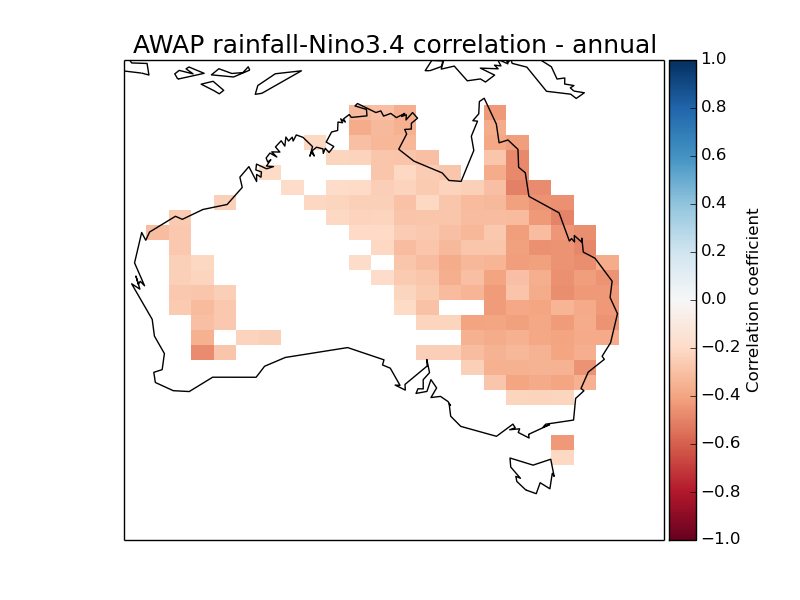
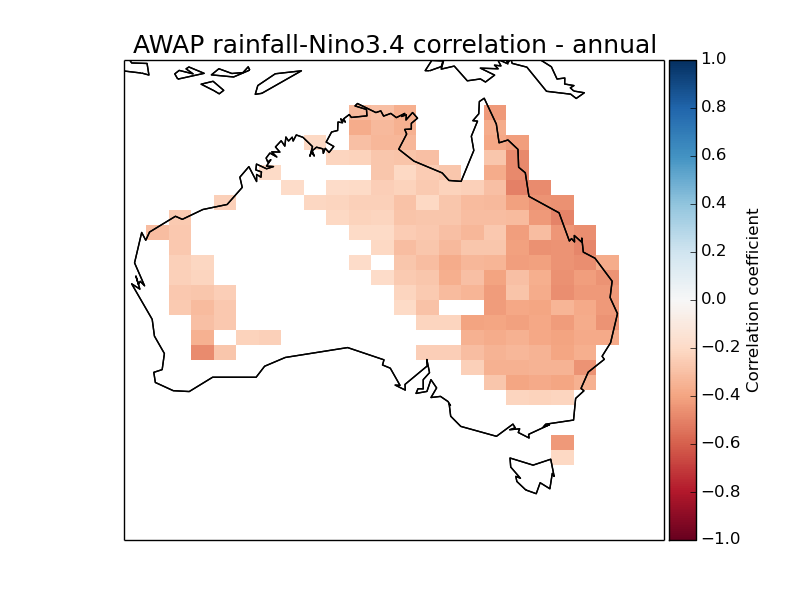
Various changes

diff --git a/correlation.py b/correlation.py
@@ -3,7 +3,7 @@ A file to collate sub-routines used to correlate ENSO with rainfall
 and the IPO with rainfall.
 
 Submitted by Sonya Wellby for ENVS4055, 2015.
-Last updated 7 October 2015.
+Last updated 10 November 2015.
 """
 import netCDF4 as n
 import numpy as np
@@ -57,13 +57,24 @@ def corr(rainfall,index):
     corr_array_masked = np.ma.masked_where(corr_array == 0.0, corr_array)
     return corr_array_masked
 
+def average(array):
+    """
+    A function to produce one value for each year in the study period.
+    """
+    list1 = []
+    for i in range(0,len(array)):
+        list1.append(np.ma.mean(array[i]))
+    array1 = np.asarray(list1)
+    return array1
+
 def corrAverage(rainfall,index):
     """
     Returns the average correlation value between an index and rainfall
     in Australia.
     """
-    rain_array = np.ma.mean(rainfall,axis=0)
-    corr_Aus = corr(rain_array,index)
+    rain_array = average(rainfall)
+    corr_Aus_full = stats.pearsonr(rain_array,index)
+    corr_Aus = np.ma.masked_where(corr_Aus_full[1]>0.05,corr_Aus_full[0])
     return corr_Aus
 
 def corrEastAus(rainfall,index):
@@ -77,50 +88,64 @@ def corrEastAus(rainfall,index):
     Rainfall: the dataset of rainfall.
     Index: the dataset of the index.
     """
-    #corr_array_masked = corr(rainfall,index)
-
     #Eastern Australian region is from 140.625 degrees east (~Vic/NSW border)
-    array_E_Aus = rainfall[:,14:]
+    array_E_Aus = rainfall[:,:,14:]
     
     #Koppen classification areas in eastern Australia
-    array_equatorial = rainfall[23:,14:]
-    array_tropical = rainfall[19:23,14:]
-    array_subtropical = rainfall[10:19,16:]
-    array_desert = rainfall[9:17,14:15]
+    array_equatorial = rainfall[:,23:,14:]
+    array_tropical = rainfall[:,19:23,14:]
+    array_subtropical = rainfall[:,10:19,16:]
+    array_desert = rainfall[:,9:17,14:15]
 
-    grass1 = rainfall[17:19,14:15]
-    grass2 = rainfall[17:19,15:16]
-    grass3 = rainfall[4:17,15:16]
-    grass4 = rainfall[4:9,14:15]
-    array_grassland = np.ma.concatenate((grass1,grass2,grass3,grass4))
+    grass1 = rainfall[:,17:19,14:15]
+    grass2 = rainfall[:,4:17,15:16]
+    grass3 = rainfall[:,4:9,14:15]
 
-    temperate1 = rainfall[4:10,16:]
-    temperate2 = rainfall[:4,14:20]
-    array_temperate = np.ma.concatenate((temperate1,temperate2))
+    temperate1 = rainfall[:,4:10,16:]
+    temperate2 = rainfall[:,:4,14:20]
 
-    #Compute average correlations for eastern Australia
-    rain_E_Aus = np.ma.average(array_E_Aus,axis=0)
-    rain_equatorial = np.ma.average(array_equatorial,axis=0)
-    rain_tropical = np.ma.average(array_tropical,axis=0)
-    rain_subtropical = np.ma.average(array_subtropical,axis=0)
-    rain_desert = np.ma.average(array_desert,axis=0)
-    rain_grassland = np.ma.average(array_grassland,axis=0)
-    rain_temperate = np.ma.average(array_temperate,axis=0)
+    #Compute average rainfall in the climate zones
+
+    rain_E_Aus = average(array_E_Aus)
+    rain_equatorial = average(array_equatorial)
+    rain_tropical = average(array_tropical)
+    rain_subtropical = average(array_subtropical)
+    rain_desert = average(array_desert)
+
+    grass1_av = average(grass1)
+    grass2_av = average(grass2)
+    grass3_av = average(grass3)
+    grass_add1 = np.ma.add(grass1_av,grass2_av)
+    grass_add2 = np.ma.add(grass_add1,grass3_av)
+    rain_grassland = np.ma.divide(grass_add2,3.0)
+    
+    temperate1_av = average(temperate1)
+    temperate2_av = average(temperate2)
+    temperate_add = np.ma.add(temperate1_av,temperate2_av)
+    rain_temperate = np.ma.divide(temperate_add,2.0)
+    
+    #Compute correlations for eastern Australia
 
     corr_E_Aus_full = stats.pearsonr(rain_E_Aus,index)
-    corr_E_Aus = corr_E_Aus_full[0]
+    corr_E_Aus = np.ma.masked_where(corr_E_Aus_full[1]>0.05,corr_E_Aus_full[0])
+    
     corr_equatorial_full = stats.pearsonr(rain_equatorial,index)
-    corr_equatorial = corr_equatorial_full[0]
+    corr_equatorial = np.ma.masked_where(corr_equatorial_full[1]>0.05,corr_equatorial_full[0])
+
     corr_tropical_full = stats.pearsonr(rain_tropical,index)
-    corr_tropical = corr_tropical_full[0]
+    corr_tropical = np.ma.masked_where(corr_tropical_full[1]>0.05,corr_tropical_full[0])
+    
     corr_subtropical_full = stats.pearsonr(rain_subtropical,index)
-    corr_subtropical = corr_subtropical_full[0]
+    corr_subtropical = np.ma.masked_where(corr_subtropical_full[1]>0.05,corr_subtropical_full[0])
+
     corr_desert_full = stats.pearsonr(rain_desert,index)
-    corr_desert = corr_desert_full[0]
+    corr_desert = np.ma.masked_where(corr_desert_full[1]>0.05,corr_desert_full[0])
+
     corr_grassland_full = stats.pearsonr(rain_grassland,index)
-    corr_grassland = corr_grassland_full[0]
+    corr_grassland = np.ma.masked_where(corr_grassland_full[1]>0.05,corr_grassland_full[0])
+
     corr_temperate_full = stats.pearsonr(rain_temperate,index)
-    corr_temperate = corr_temperate_full[0]
+    corr_temperate = np.ma.masked_where(corr_temperate_full[1]>0.05,corr_temperate_full[0])
 
     return corr_E_Aus,corr_equatorial,corr_tropical,\
            corr_subtropical,corr_desert,corr_grassland,corr_temperate
